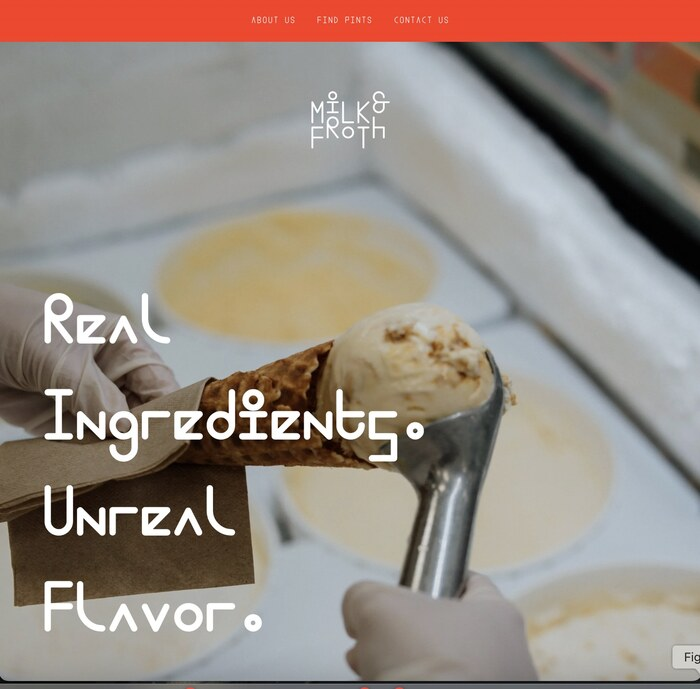
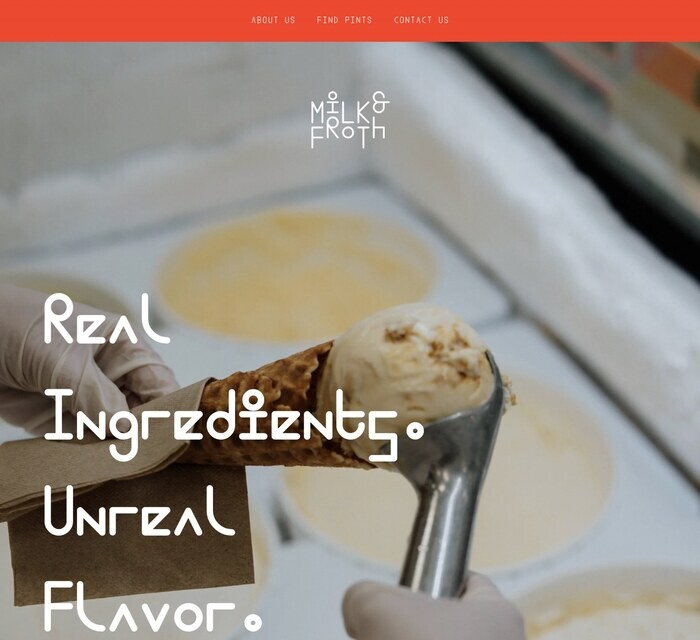
About: accessibility note; Root and ElevateED glance wording; crop Figma label from Milk and Froth before image
Claude-Session: https://claude.ai/code/session_01GwEFzAyK7Ej1XsMyYeW86X

diff --git a/js/data.js b/js/data.js
@@ -136,6 +136,17 @@ window.PORTFOLIO = {
     ],
 
     // Bonus frame
+    accessNote: {
+      title: "This site is built to be accessible",
+      text: "As a UX researcher and designer, I treat accessibility as part of the work, so I built this portfolio to meet WCAG 2.1 AA.",
+      points: [
+        "Automated testing with axe on every page, with no violations.",
+        "Color contrast checked against AA targets, including text on every background.",
+        "Works with a keyboard alone, with a skip link and visible focus.",
+        "Every image has a description for screen readers.",
+        "Respects reduced-motion settings, and works on phones as small as 320 pixels wide."
+      ]
+    },
     moreHeading: "A little more about me",
     more: [
       {
@@ -367,7 +378,7 @@ window.PORTFOLIO = {
       focus: "Retention research",
       approach: "Interviewed customers and stakeholders to find churn drivers, then turned them into 15 retention concepts",
       summary: "Improving retention for 500,000+ policyholders while empowering CS agents with the tools and insights to better support customers.",
-      glance: { problem: "Customers leave Root, and the teams who could keep them lacked a clear picture of why.", did: "12 stakeholder and 6 customer interviews, affinity mapping, desk research reports and live usability testing.", changed: "15 net-new retention concepts, shared out to leadership.", role: "UX Research Intern. I wrote the research plan, moderated customer interviews, synthesized findings and presented readouts, with a product design intern." },
+      glance: { problem: "Customers leave Root, and the teams who could keep them lacked a clear picture of why.", did: "12 stakeholder and 6 customer interviews, affinity mapping, desk research reports and live usability testing.", changed: "15 net-new retention concepts, shared out to leadership. Used Lovable to host the research repository.", role: "UX Research Intern. I wrote the research plan, moderated customer interviews, synthesized findings and presented readouts, with a product design intern." },
       ballColor: "#ff7a45",
       year: "2026",
       tags: ["Mixed-methods", "Journey maps", "Retention"],
@@ -866,7 +877,7 @@ window.PORTFOLIO = {
       focus: "Strategy research",
       approach: "Interviewed 10 learners, HR professionals and Instructure staff, then turned five barriers into three product recommendations",
       summary: "Research that built the case for an AI-powered learning initiative advancing inclusive, alternative education pathways.",
-      glance: { problem: "Instructure mostly serves traditional schools, while 79% of people in the US do not attend a traditional university.", did: "10 interviews with learners, HR professionals and Instructure staff, then affinity mapping and a Pugh matrix.", changed: "Our team was selected to present five barriers turned into three product recommendations to 180+ students and the strategy team.", role: "Lead UX Researcher, and the only one on a team of four. I led research planning, interviews and affinity analysis, and helped present the work." },
+      glance: { problem: "Instructure mostly serves traditional schools, while 79% of people in the US do not attend a traditional university.", did: "10 interviews with learners, HR professionals and Instructure staff, followed by the Pugh matrix and building a Figma Make prototype of the recommendations.", changed: "Our team was selected to present five barriers turned into three product recommendations to 180+ students and the strategy team.", role: "Lead UX Researcher, and the only one on a team of four. I led research planning, interviews and affinity analysis, and helped present the work." },
       ballColor: "#27d9f5",
       year: "2025",
       tags: ["Stakeholder interviews", "Affinity mapping", "Prototyping"],

diff --git a/js/pages.js b/js/pages.js
@@ -213,6 +213,7 @@
               .map((m) => `<article class="more"><p class="more-v">${esc(m.value)}</p><h3>${esc(m.title)}</h3><p>${esc(m.text)}</p></article>`)
               .join("")}
           </div>
+          ${A.accessNote ? `<article class="a11y-note" aria-labelledby="a11y-title"><h3 id="a11y-title">${esc(A.accessNote.title)}</h3><p>${esc(A.accessNote.text)}</p><ul>${A.accessNote.points.map((x) => `<li>${esc(x)}</li>`).join("")}</ul></article>` : ""}
           <article class="league">
             <figure class="league-photo"><img src="${esc(A.league.image.src)}" alt="${esc(A.league.image.alt)}" width="536" height="524" loading="lazy"></figure>
             <div class="league-body">

diff --git a/css/styles.css b/css/styles.css
@@ -934,3 +934,9 @@ body { overflow-x: clip; }
 .case-meta dd { line-height: 1.3; font-size: 0.98rem; }
 @media (max-width: 700px) { .glance-boxes { grid-template-columns: 1fr; } }
 @media (max-width: 520px) { .glance-boxes { grid-template-columns: 1fr; } }
+
+/* ---------- About: accessibility note ---------- */
+.a11y-note { margin: 0 0 16px; padding: 22px 24px; background: var(--panel); border: 1px solid var(--line); border-left: 4px solid var(--cyan); border-radius: var(--radius, 16px); }
+.a11y-note h3 { margin: 0 0 8px; font-size: 1.2rem; }
+.a11y-note p { margin: 0 0 10px; color: #cfc8e6; }
+.a11y-note ul { margin: 0; padding-left: 20px; color: #e6e0f7; display: grid; gap: 4px; }
